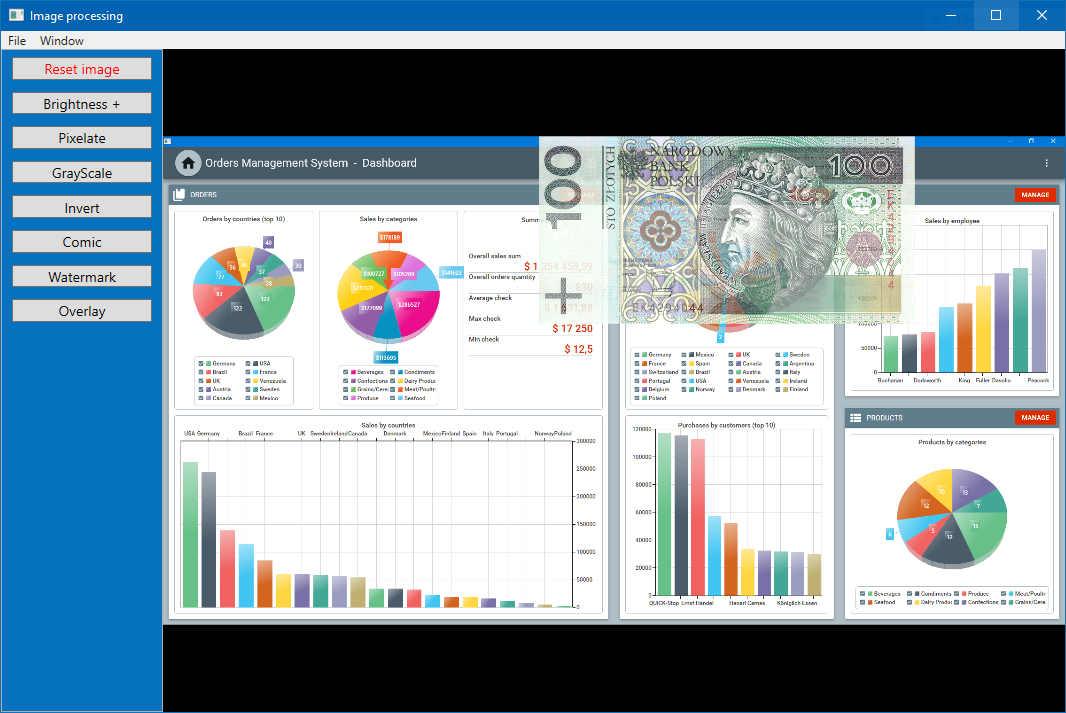
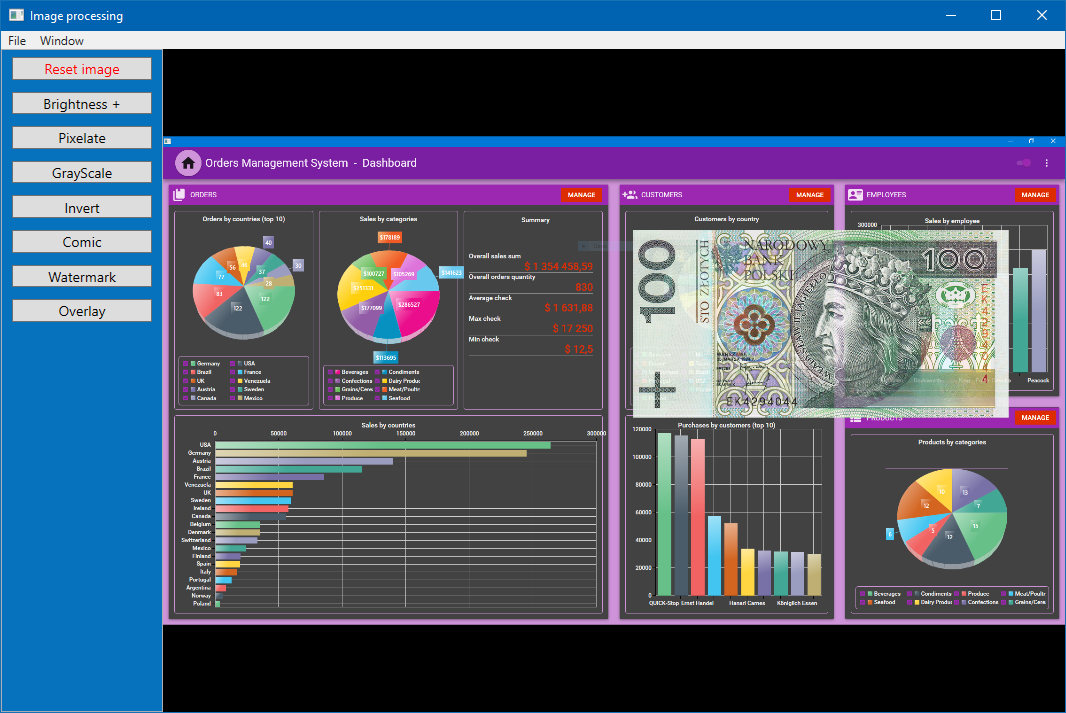
no comments

diff --git a/ImageProcessing/MainWindow.xaml.cs b/ImageProcessing/MainWindow.xaml.cs
@@ -155,7 +155,7 @@ namespace ImageProcessing
                 Image = Image.FromFile(GetFilePath()),
                 Opacity = 80,
                 Size = new System.Drawing.Size(800, 500),
-                Position = new System.Drawing.Point(800, 0)
+                Position = new System.Drawing.Point(1000, 200)
             })
              .Image;
         #endregion
